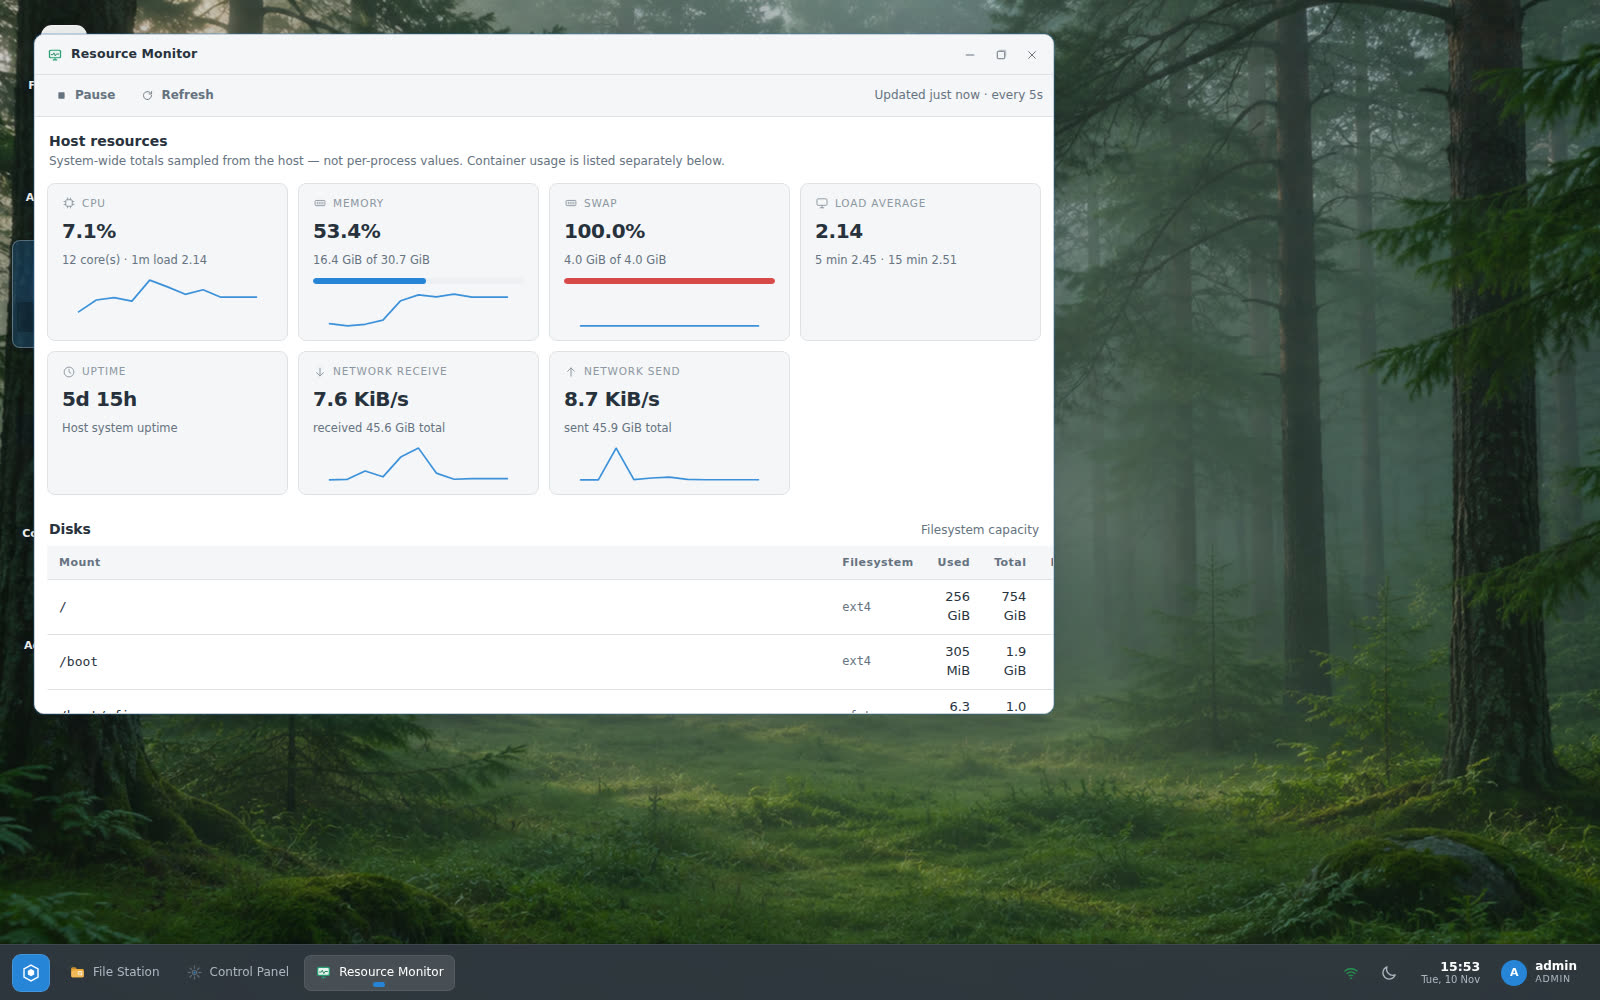
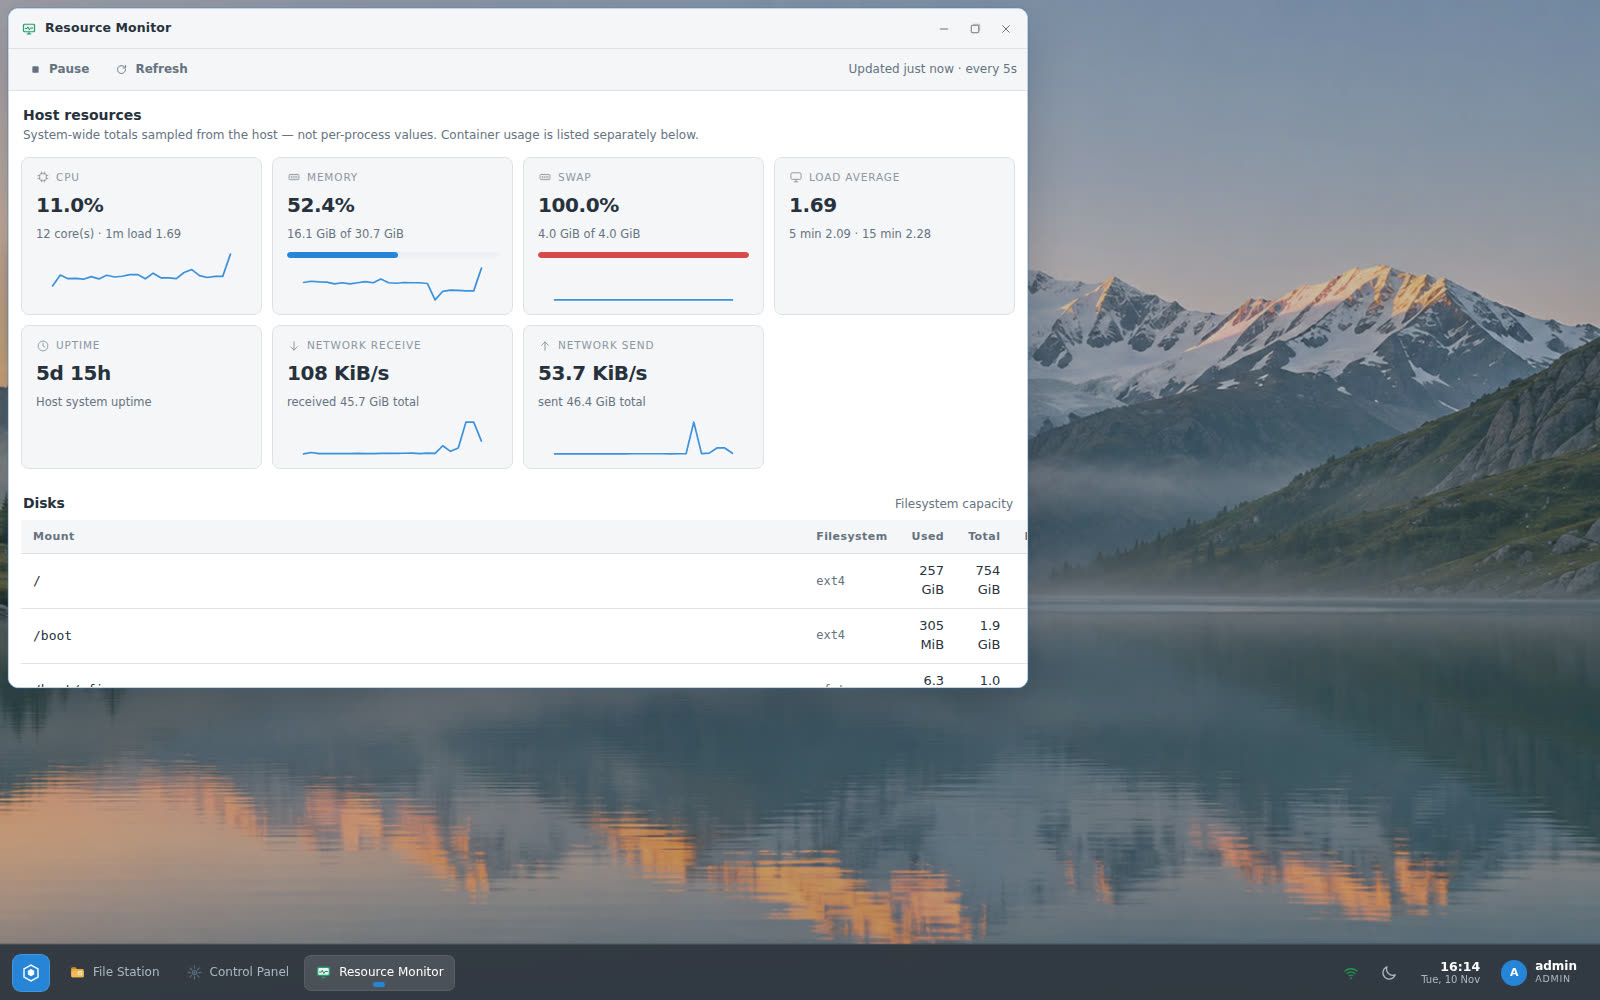
docs: replace screenshots with v0.1.5 production captures and record measurements
- Screenshots captured from the live https://desktop.lufria.tech deployment
  (light desktop, login, Personalize, private wallpaper, File Station, Resource
  Monitor, Control Panel Appearance, dark theme, mobile)
- Verified-deployment section updated for v0.1.5: 39.3 MiB total idle RSS /
  0.17% CPU after restart, 61/61 live smoke checks, 224 automated tests
- Documented that allocator retention after heavy activity can read higher
  without indicating a leak

diff --git a/README.md b/README.md
@@ -21,7 +21,7 @@ RAST bundles the day-to-day server admin tools into one web desktop:
 [![License: MIT](https://img.shields.io/badge/license-MIT-blue.svg)](LICENSE)
 ![Platforms](https://img.shields.io/badge/platforms-linux%20x86__64%20%7C%20aarch64-informational)
 
-> **Status:** v0.1.4 — first public release series (2026-11-10). APIs and data
+> **Status:** v0.1.5 — first public release series (2026-11-10). APIs and data
 > formats may still change before v1.0; see [CHANGELOG.md](CHANGELOG.md) for the
 > exact feature set and known limitations.
 
@@ -37,26 +37,31 @@ RAST bundles the day-to-day server admin tools into one web desktop:
 
 ## Verified deployment
 
-RAST 0.1.3 is deployed and publicly reachable at
+RAST 0.1.5 is deployed and publicly reachable at
 <https://desktop.lufria.tech> behind Cloudflare Tunnel + nginx. Measured on the
-reference host (Ubuntu 26.04, x86_64, 12 cores / 30 GiB RAM), 60-second idle
-window with the resource monitor running:
+reference host (Ubuntu 26.04, x86_64, 12 cores / 30 GiB RAM) after a clean
+restart, 60-second idle window with the resource monitor sampling every 5 s:
 
-| Process | CPU (idle) | RSS | Anonymous memory |
-| --- | --- | --- | --- |
-| `rast.service` (web + jobs + monitor + SQLite) | 0.13% | 32.1 MiB | 24.7 MB |
-| `rast-worker.service` (Docker operations) | 0.02% | 9.1 MiB | 1.4 MB |
-| **Total RAST** | **0.15%** | **41.2 MiB** | **~26 MB** |
+| Process | CPU (idle) | RSS |
+| --- | --- | --- |
+| `rast.service` (web + jobs + monitor + SQLite) | 0.17% | 30.2 MiB |
+| `rast-worker.service` (Docker operations) | 0.00% | 9.2 MiB |
+| **Total RAST** | **0.17%** | **39.3 MiB** |
 
-That is comfortably below the project budget of 100 MiB idle RAM (reverse
-proxy, Cloudflare Tunnel and Docker are excluded, as is reclaimable page
-cache). Verification performed on the live deployment: 52/52 end-to-end smoke
-checks (auth, CSRF, isolation, files, quota, trash, monitoring, SSE, backups,
-logs, Docker worker), a 150 MiB chunked upload through Cloudflare with a
-byte-identical download, a single-request 150 MiB upload through nginx, a
-managed nginx application deployed/restarted/deleted with data-volume
-persistence, a checksum-verified self-update, and the clean-container installer
-suite (64 checks).
+That is well below the project budget of 100 MiB idle RAM (reverse proxy,
+Cloudflare Tunnel and Docker are excluded). Anonymous memory is ~22 MiB for the
+web service; the rest is file-backed pages that the kernel can reclaim. After
+long activity (large uploads, backups, container stats) the allocator keeps some
+resident memory, so an uptime-long measurement can read higher (e.g. 65 MiB)
+without any leak.
+
+Verification on the live deployment: **61/61 end-to-end smoke checks** (auth,
+CSRF, two-user isolation, files, quota, trash, monitoring, SSE, backups, logs,
+Docker worker, and the new appearance tests: upload byte-exactness, cross-user
+404, independent per-user settings, delete fallback), **224 automated Rust
+tests** (209 unit/integration + 15 HTTP end-to-end), a clean-systemd-container
+installer suite, and Playwright checks of the live UI in light/dark themes at
+1600×1000 and 390×844 with zero console errors.
 
 ## Quick start (installed server)
 
